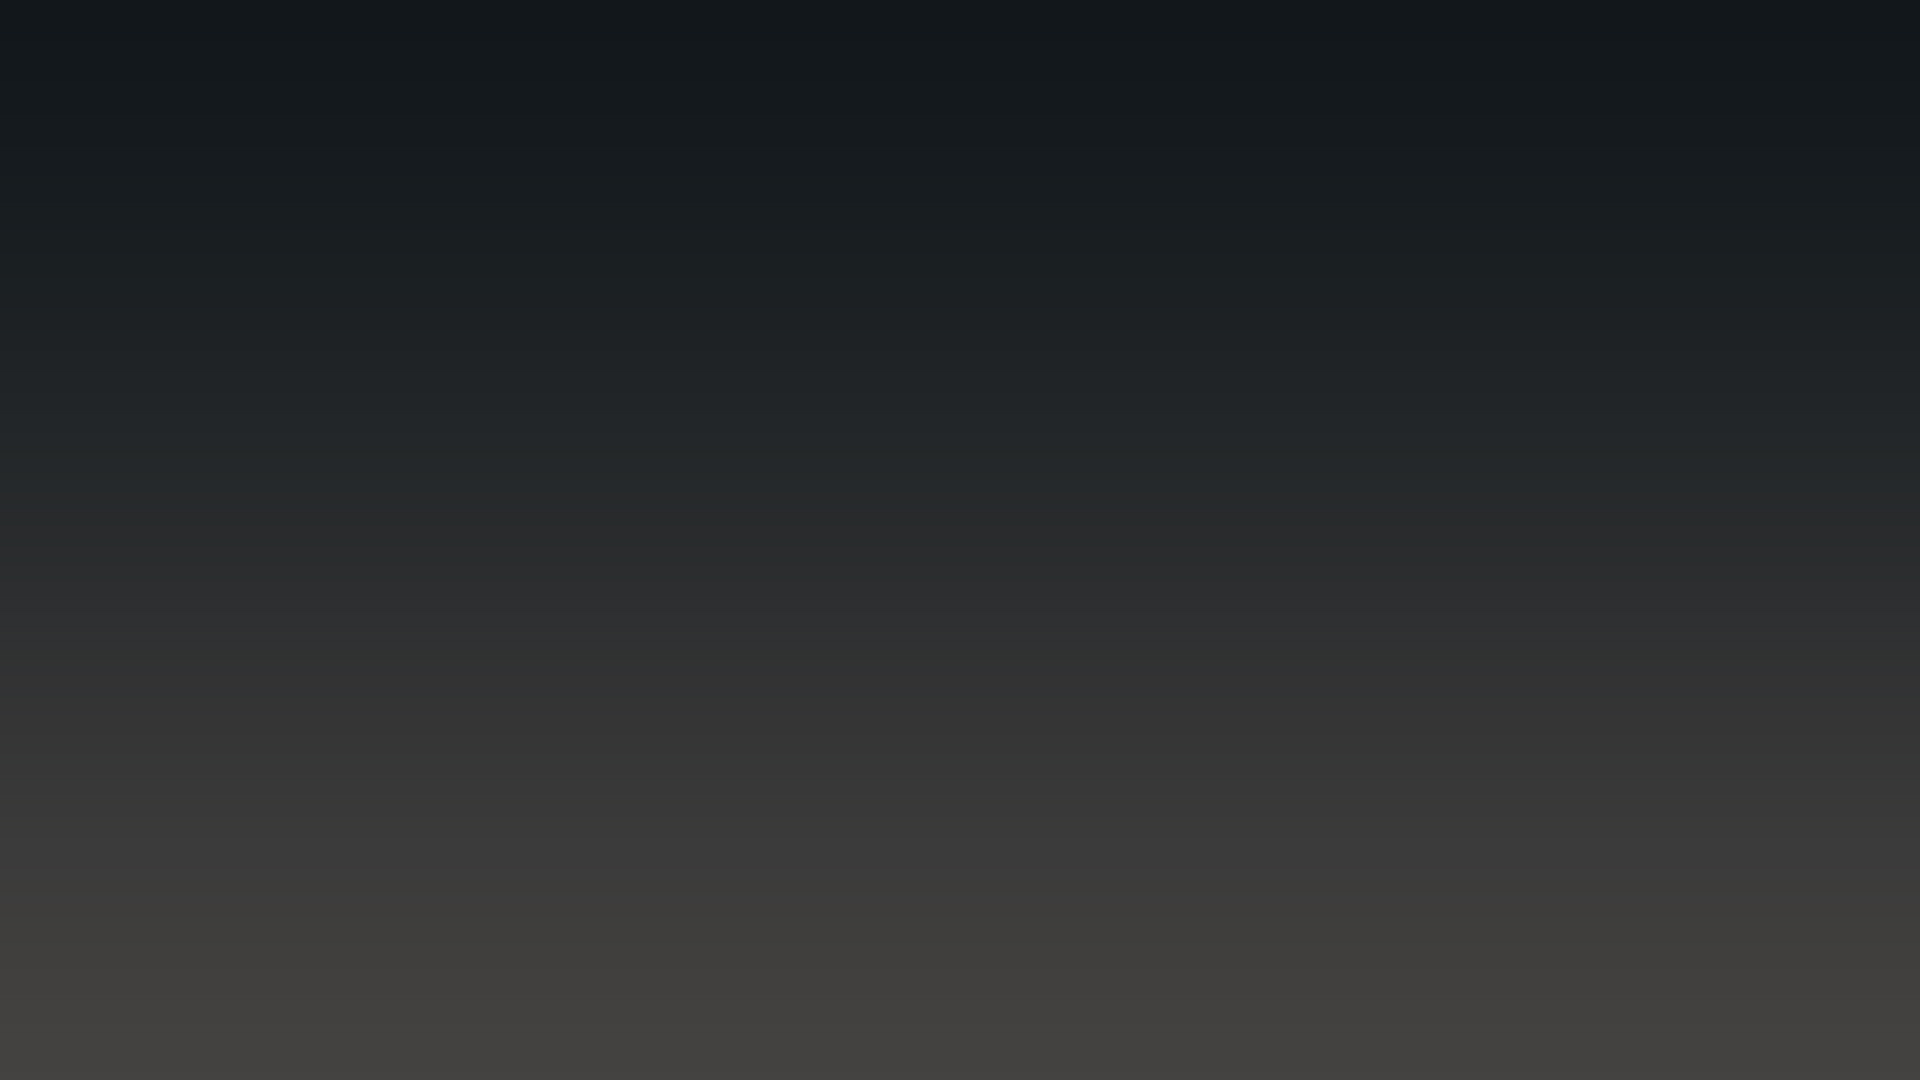
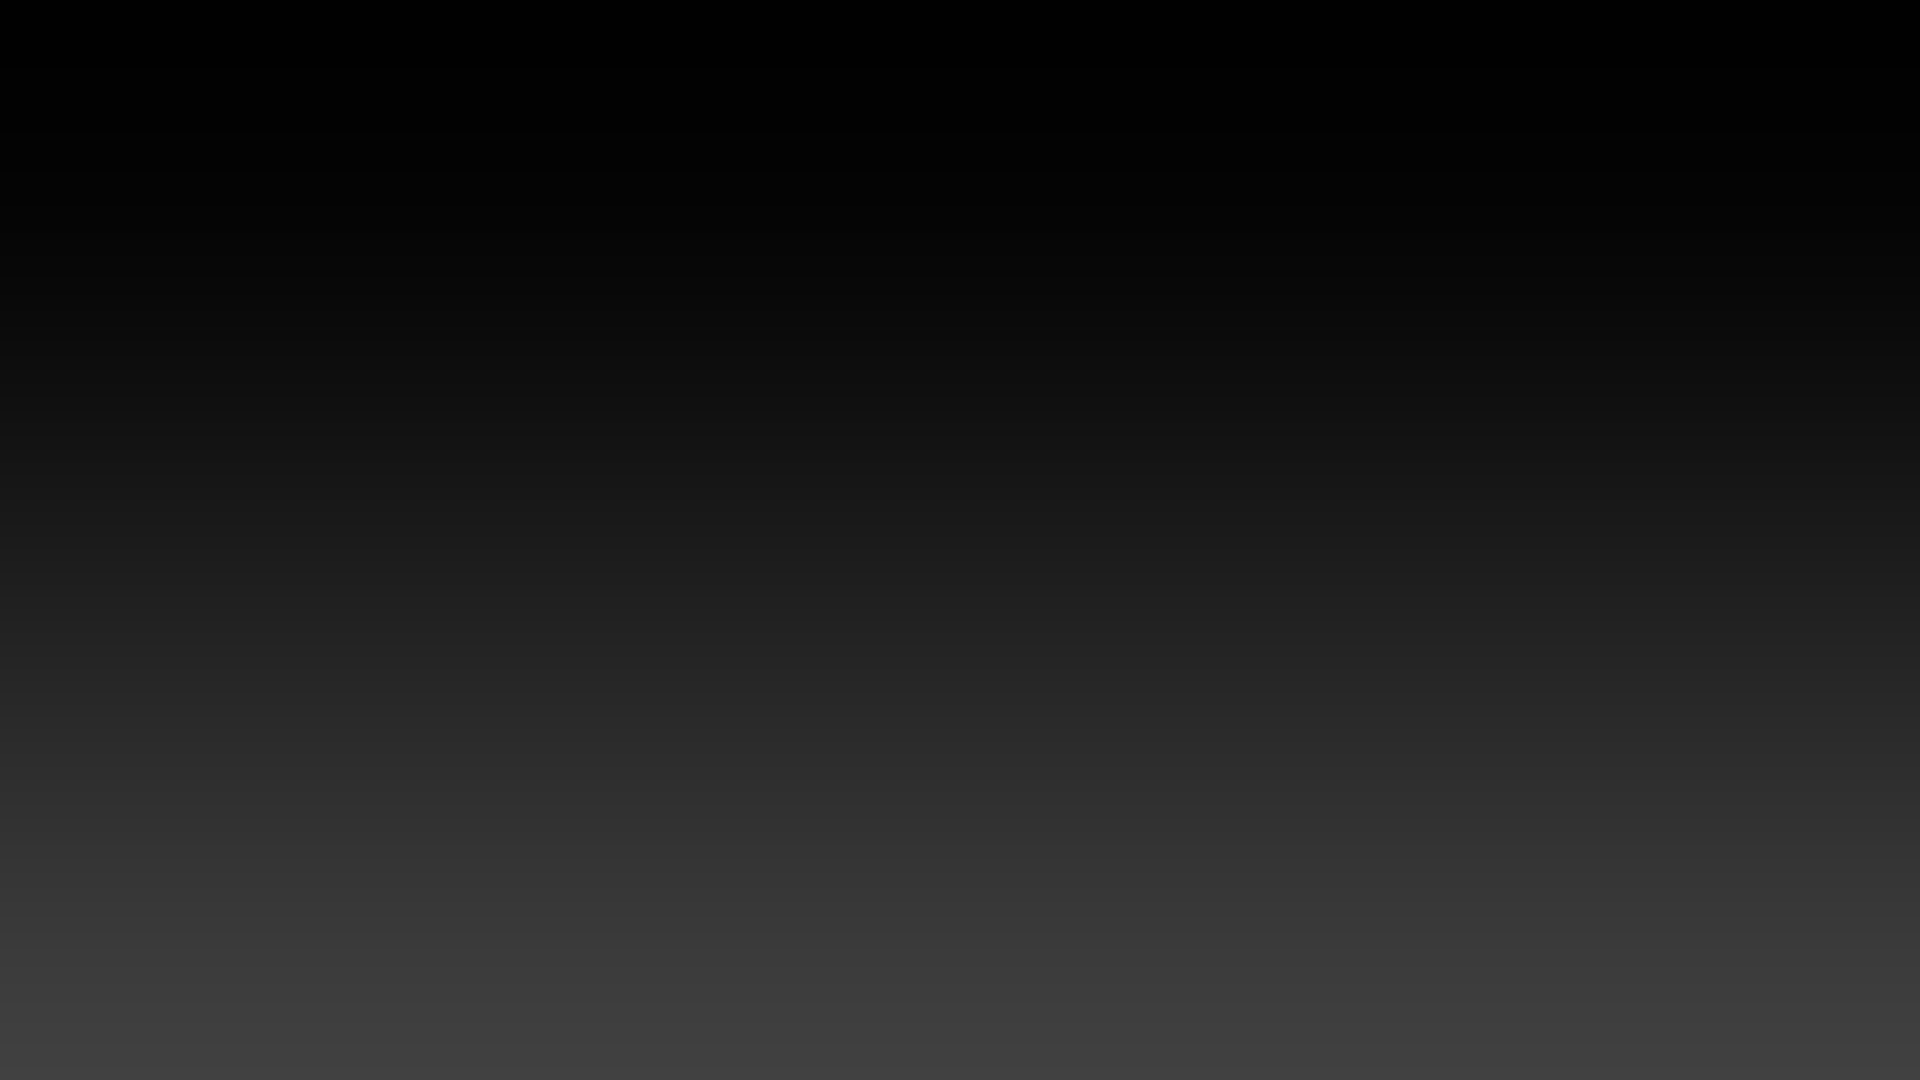
index change

diff --git a/style.css b/style.css
@@ -104,7 +104,6 @@ a:hover{
 .secimg{
    display: flex;
    flex-direction: row;
-
    gap:3rem;
    position:relative;
    width: 100%;
@@ -116,6 +115,7 @@ a:hover{
 .imgmain1{
     height:100%;
     width:100%;
+   
 }
 
 #aserie{
@@ -408,7 +408,7 @@ width:100%;
 .artmainpubli1{
     position:relative;
     height:35rem;
-    width:98%;
+    width:100%;
     padding-left:0;
    
 }